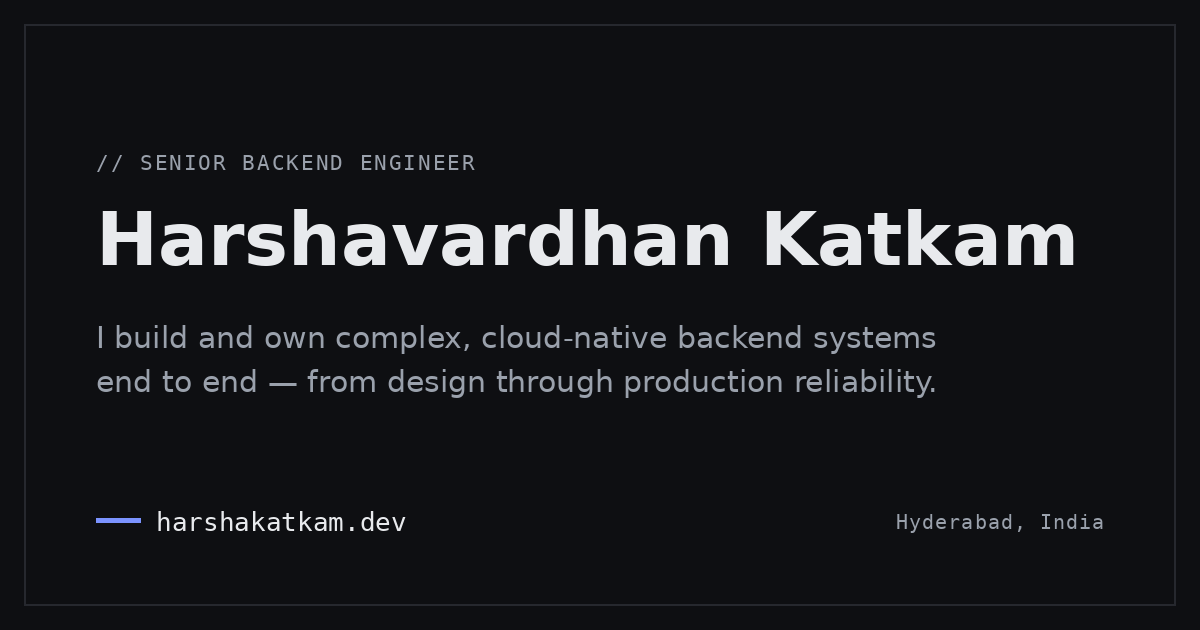
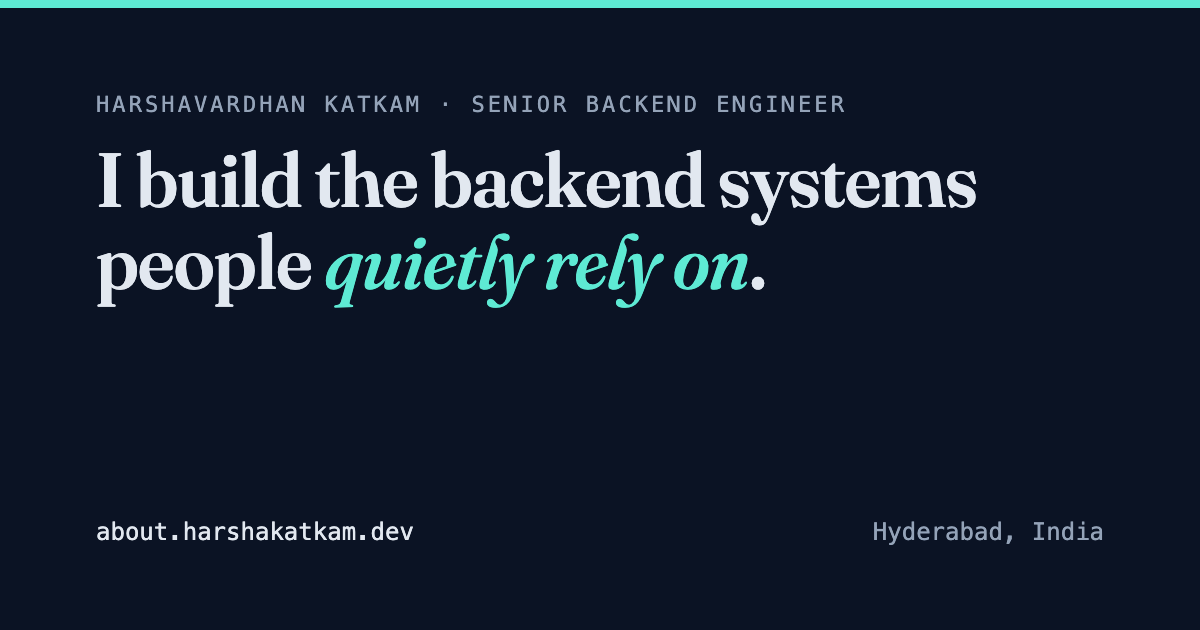
Add GitHub link, refresh social preview image, fix credentials wrapping, drop unused styles

diff --git a/styles.css b/styles.css
@@ -23,7 +23,6 @@
   --muted: #4B5768;
   --line: #DCE2EA;
   --accent: #0B6B7D;
-  --tag-bg: #E2EEF1;
 
   --display: "Fraunces", Georgia, "Times New Roman", serif;
   --sans: system-ui, -apple-system, "Segoe UI", Roboto, "Helvetica Neue", Arial, sans-serif;
@@ -51,7 +50,6 @@
     --muted: #94A3B8;
     --line: #22304A;
     --accent: #5EEAD4;
-    --tag-bg: #12283A;
   }
 }
 
@@ -63,7 +61,6 @@
   --muted: #94A3B8;
   --line: #22304A;
   --accent: #5EEAD4;
-  --tag-bg: #12283A;
 }
 
 :root[data-theme="light"] {
@@ -74,7 +71,6 @@
   --muted: #4B5768;
   --line: #DCE2EA;
   --accent: #0B6B7D;
-  --tag-bg: #E2EEF1;
 }
 
 *,
@@ -387,10 +383,6 @@ main > section:not(.hero) {
   font-size: 1.0625rem;
 }
 
-.hero__dot {
-  color: var(--line);
-}
-
 .section__head {
   max-width: var(--measure);
   margin-bottom: var(--sp-4);
@@ -673,11 +665,14 @@ main > section:not(.hero) {
 .creds__line {
   color: var(--text);
   font-size: 1.0625rem;
+  padding-left: 8rem;
+  text-indent: -8rem;
 }
 
 .creds__key {
   display: inline-block;
   min-width: 8rem;
+  text-indent: 0;
   font-family: var(--mono);
   font-size: 0.75rem;
   letter-spacing: 0.1em;
@@ -686,6 +681,7 @@ main > section:not(.hero) {
 }
 
 .creds__note {
+  white-space: nowrap;
   font-family: var(--mono);
   font-size: 0.8125rem;
   letter-spacing: 0.02em;
@@ -703,6 +699,9 @@ main > section:not(.hero) {
 
 .contact__links {
   margin-top: var(--sp-3);
+  display: flex;
+  flex-wrap: wrap;
+  gap: var(--sp-1) var(--sp-4);
   font-size: 1.1875rem;
 }
 
@@ -772,6 +771,7 @@ main > section:not(.hero) {
   .brand__short { display: inline; }
   .selected { grid-template-columns: minmax(0, 1fr); }
   .stack__group { grid-template-columns: minmax(0, 1fr); gap: var(--sp-1); }
+  .creds__line { padding-left: 0; text-indent: 0; }
   .creds__key { min-width: 0; margin-right: 0.5rem; }
 }
 

diff --git a/index.html b/index.html
@@ -67,7 +67,7 @@
       "name": "Rajiv Gandhi University of Knowledge Technologies (RGUKT)"
     },
     "knowsAbout": ["Distributed Systems", "Event-Driven Architecture", "Java", "Kotlin", "Python", "Spring Boot", "AWS", "GCP", "Apache Kafka", "Site Reliability", "Large Language Models", "AI Agents", "LLM Application Development", "Prompt Engineering"],
-    "sameAs": ["https://www.linkedin.com/in/harshavardhankatkam"]
+    "sameAs": ["https://www.linkedin.com/in/harshavardhankatkam", "https://github.com/Harshavardhan17"]
   }
   </script>
 </head>
@@ -301,6 +301,7 @@
           <p class="contact__pitch">I&rsquo;m always happy to talk backend systems, reliability, or a hard problem you&rsquo;re stuck on. LinkedIn is the surest way to reach me.</p>
           <p class="contact__links">
             <a class="link" href="https://www.linkedin.com/in/harshavardhankatkam" rel="me noopener">Connect on LinkedIn</a>
+            <a class="link" href="https://github.com/Harshavardhan17" rel="me noopener">Code on GitHub</a>
           </p>
         </div>
       </div>

diff --git a/README.md b/README.md
@@ -136,31 +136,12 @@ Theme colors, spacing scale (`--sp-1` … `--sp-5`), fonts, and layout widths ar
 custom properties on `:root` at the top of `styles.css`. Reuse the spacing scale
 rather than introducing arbitrary values.
 
-## Adding the GitHub link later
+## Social profiles
 
-GitHub is intentionally omitted for now (no invented handle). Two spots reference the
-social profiles — update both when you have the real username:
+LinkedIn and GitHub (`github.com/Harshavardhan17`) appear in two spots; keep them in sync:
 
-1. **Contact section** in `index.html` — add a link alongside the existing LinkedIn
-   one, mirroring its markup:
-
-   ```html
-   <p class="contact__links">
-     <a class="link" href="https://github.com/YOUR_USERNAME" rel="me noopener">github.com/YOUR_USERNAME</a>
-   </p>
-   ```
-
-2. **JSON-LD** `sameAs` array in the `<script type="application/ld+json">` block —
-   add the profile URL:
-
-   ```json
-   "sameAs": [
-     "https://www.linkedin.com/in/harshavardhankatkam",
-     "https://github.com/YOUR_USERNAME"
-   ]
-   ```
-
-Do not invent a handle — use your real personal GitHub username.
+1. **Contact section** in `index.html` (`.contact__links`).
+2. **JSON-LD** `sameAs` array in the `<script type="application/ld+json">` block.
 
 ## Deploy — GitHub Pages on the `about` subdomain
 
